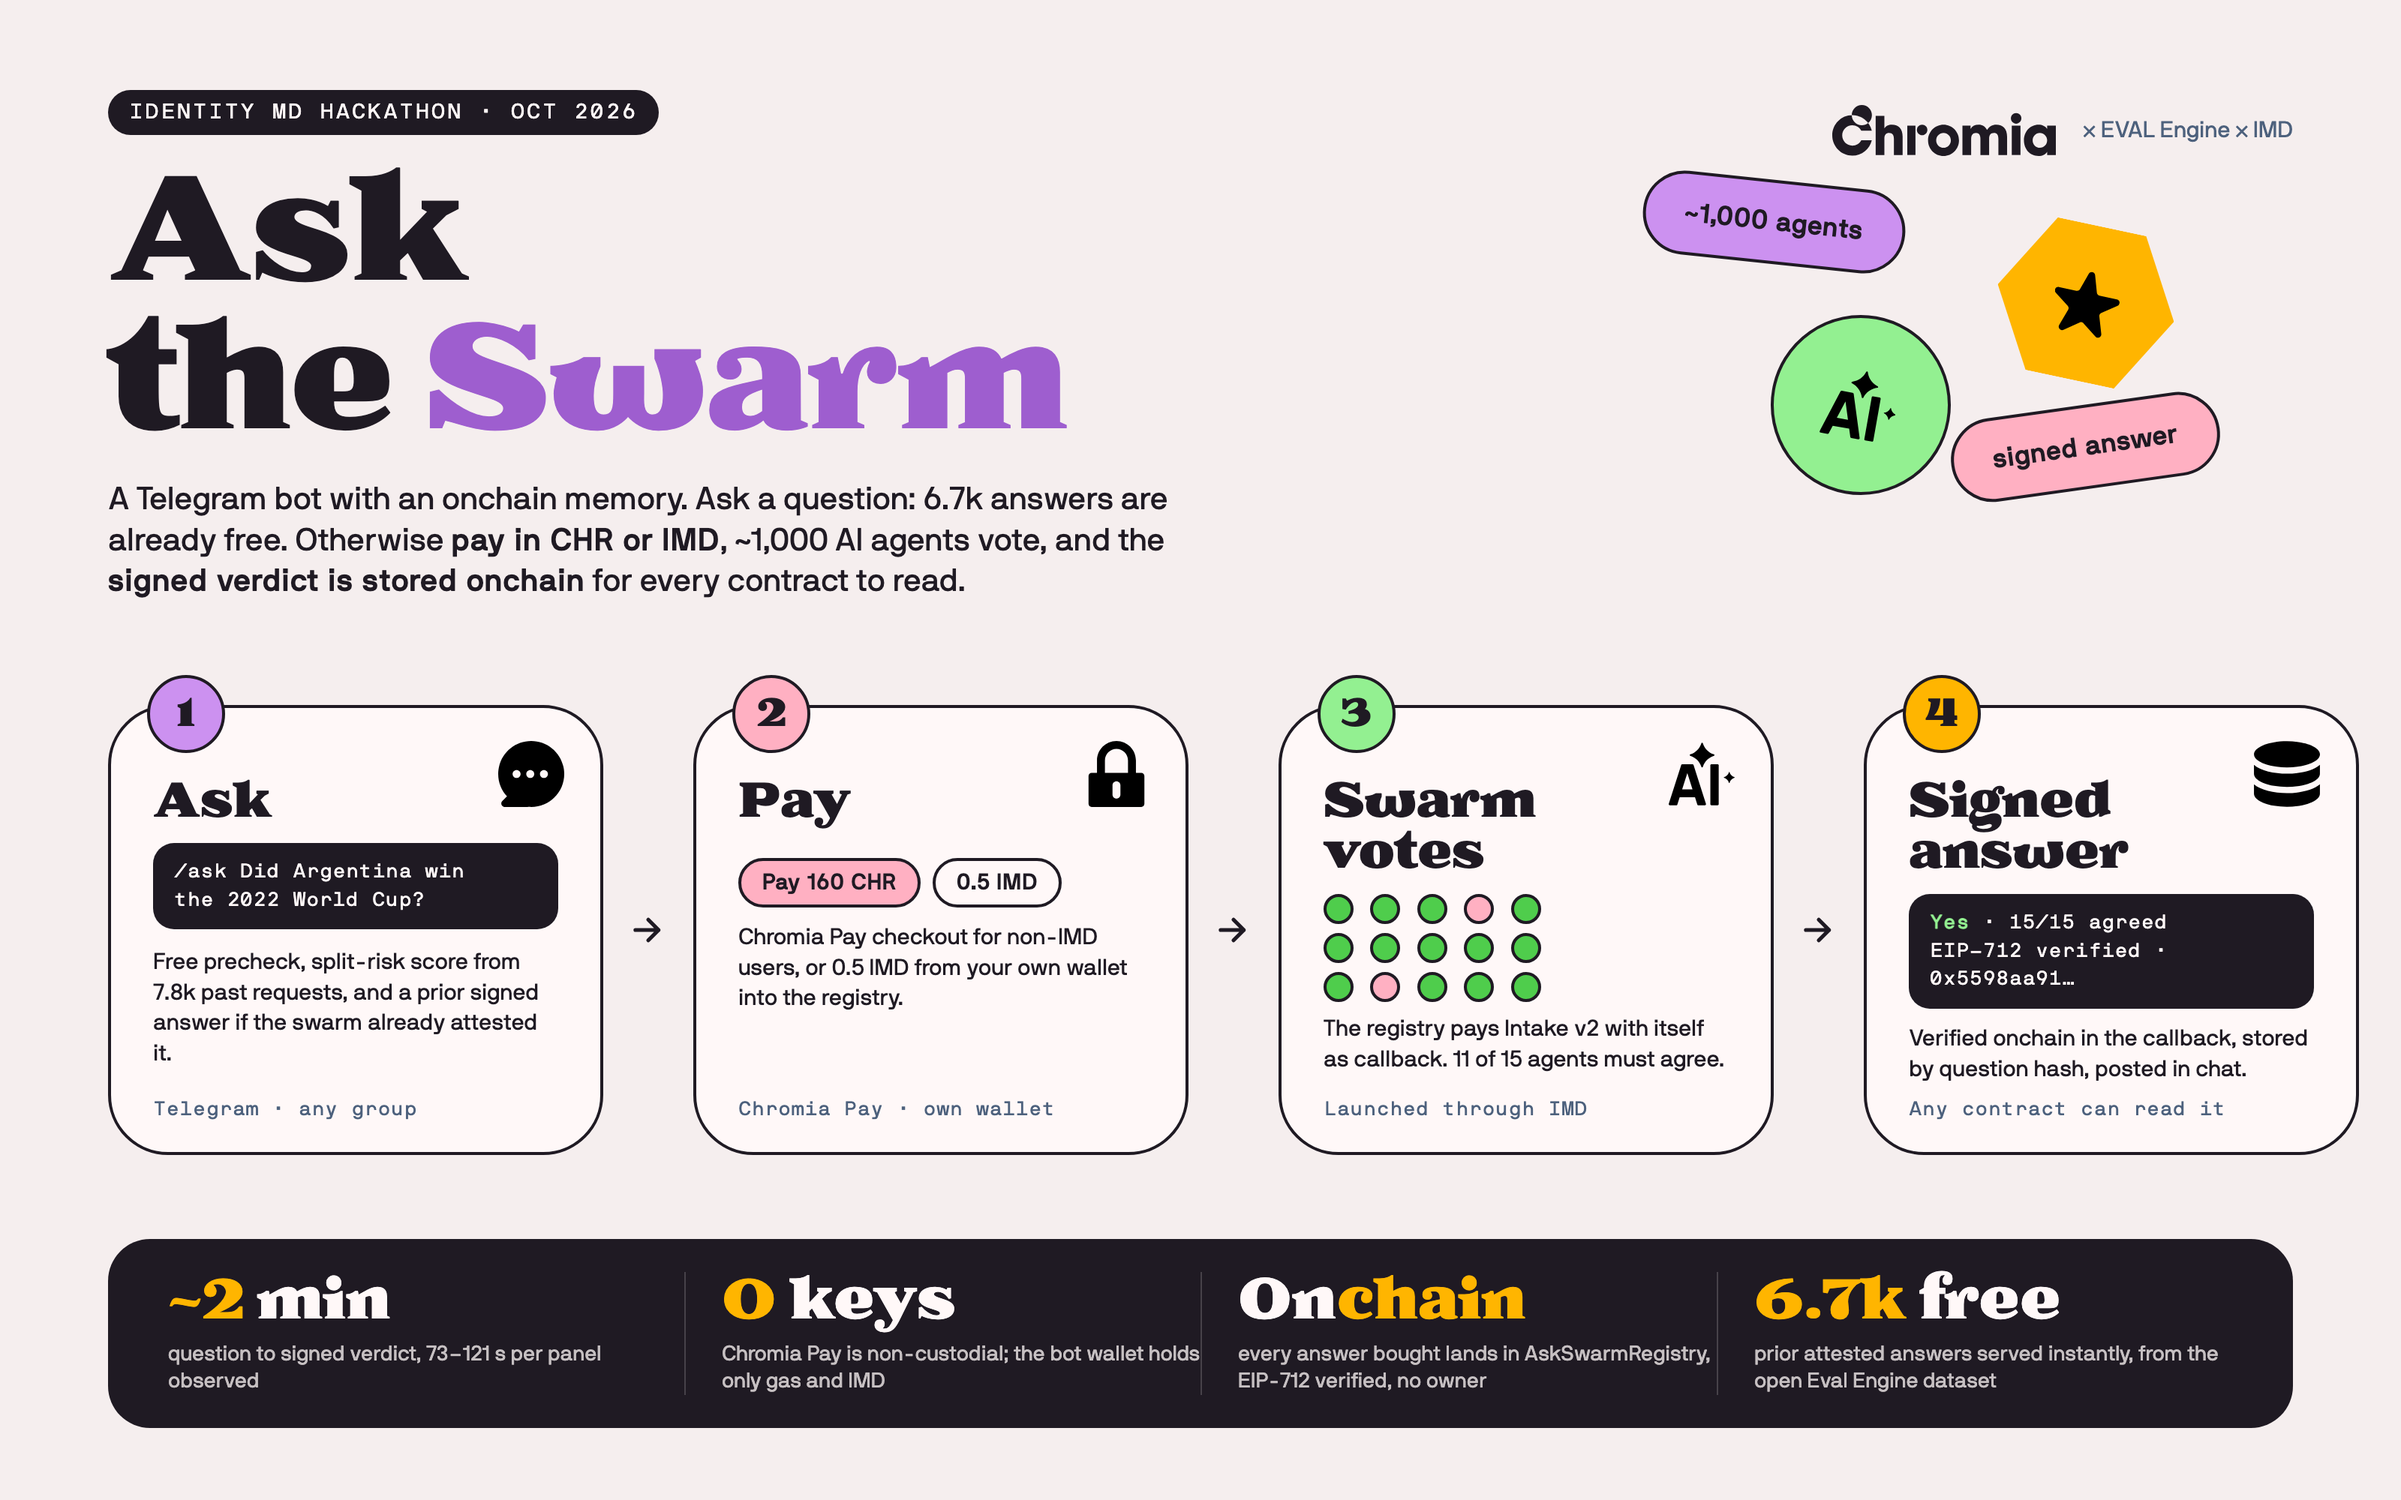
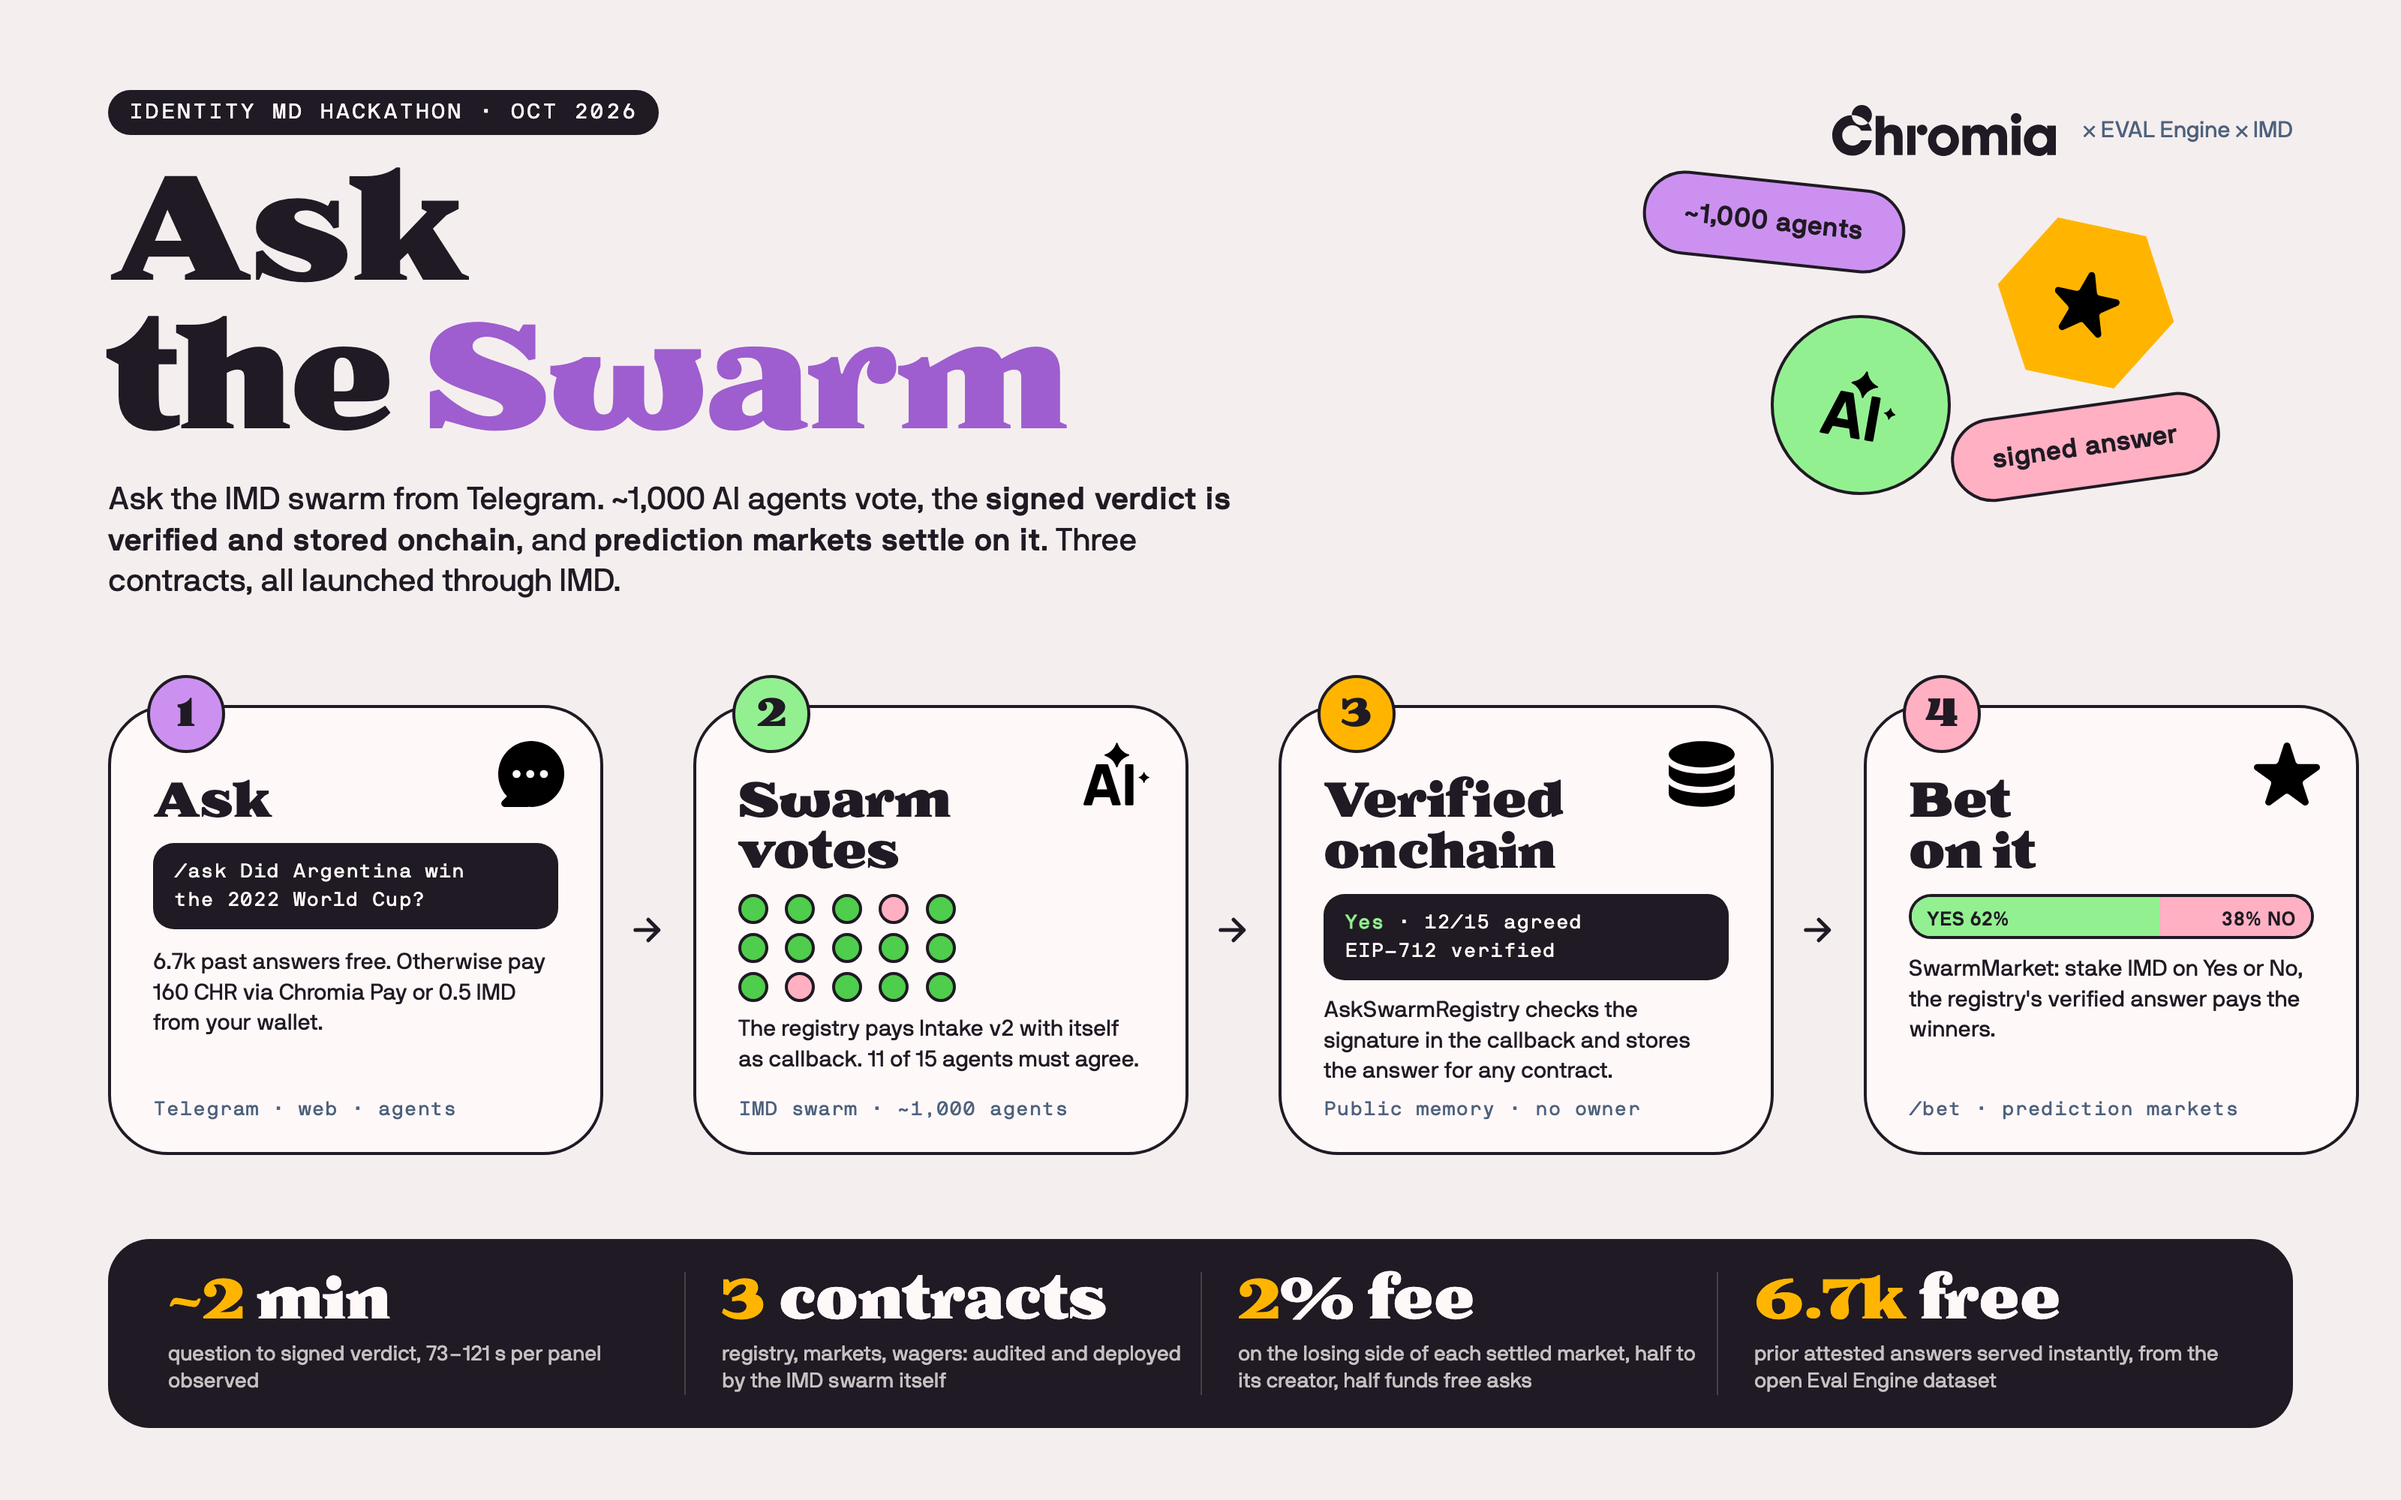
docs: README intro and architecture around registry, markets, wagers; infographic with markets

diff --git a/docs/brand/infographic.html b/docs/brand/infographic.html
@@ -60,6 +60,8 @@
   .strip small{display:block;font-size:14px;line-height:1.3;color:rgba(255,248,248,.75);margin-top:6px}
   .logos{position:absolute;right:72px;top:70px;display:flex;align-items:center;gap:18px;font-size:15px;color:var(--slate)}
   .logos img{height:34px}
+  .mbar{display:flex;height:30px;border:2px solid #1F1A23;border-radius:999px;overflow:hidden;font:700 13px/30px 'NB International';margin-top:2px}
+  .mbar .my{background:#93F091;padding-left:10px}.mbar .mn{background:#FFB0C2;flex:1;text-align:right;padding-right:10px}
 </style>
 </head>
 <body>
@@ -74,7 +76,7 @@
   <header>
     <span class="eyebrow">Identity MD hackathon · Oct 2026</span>
     <h1>Ask<br>the <span class="accent">Swarm</span></h1>
-    <p class="sub">A Telegram bot with an onchain memory. Ask a question: 6.7k answers are already free. Otherwise <b>pay in CHR or IMD</b>, ~1,000 AI agents vote, and the <b>signed verdict is stored onchain</b> for every contract to read.</p>
+    <p class="sub">Ask the IMD swarm from Telegram. ~1,000 AI agents vote, the <b>signed verdict is verified and stored onchain</b>, and <b>prediction markets settle on it</b>. Three contracts, all launched through IMD.</p>
   </header>
 
   <section class="flow">
@@ -82,39 +84,39 @@
       <span class="n">1</span><img class="ic" src="message.svg">
       <h3>Ask</h3>
       <div class="chat">/ask Did Argentina win<br>the 2022 World Cup?</div>
-      <p style="margin-top:12px">Free precheck, split-risk score from 7.8k past requests, and a prior signed answer if the swarm already attested it.</p>
-      <span class="meta">Telegram · any group</span>
-    </div>
-    <svg class="arrow" viewBox="0 0 28 28"><path d="M4 14h18M14 6l8 8-8 8" fill="none" stroke="#1F1A23" stroke-width="3" stroke-linecap="round" stroke-linejoin="round"/></svg>
-    <div class="card" style="--chip:var(--pink);--chip-s:var(--pink-s);--shadow:var(--pink-s)">
-      <span class="n">2</span><img class="ic" src="lock.svg">
-      <h3>Pay</h3>
-      <span class="btn">Pay 160 CHR</span><span class="btn ghost">0.5 IMD</span>
-      <p style="margin-top:10px">Chromia Pay checkout for non-IMD users, or 0.5 IMD from your own wallet into the registry.</p>
-      <span class="meta">Chromia Pay · own wallet</span>
+      <p style="margin-top:12px">6.7k past answers free. Otherwise pay 160 CHR via Chromia Pay or 0.5 IMD from your wallet.</p>
+      <span class="meta">Telegram · web · agents</span>
     </div>
     <svg class="arrow" viewBox="0 0 28 28"><path d="M4 14h18M14 6l8 8-8 8" fill="none" stroke="#1F1A23" stroke-width="3" stroke-linecap="round" stroke-linejoin="round"/></svg>
     <div class="card" style="--chip:var(--green);--chip-s:var(--green-s);--shadow:var(--green-s)">
-      <span class="n">3</span><img class="ic" src="ai.svg">
+      <span class="n">2</span><img class="ic" src="ai.svg">
       <h3>Swarm<br>votes</h3>
       <div class="dots"><i></i><i></i><i></i><i class="no"></i><i></i><i></i><i></i><i></i><i></i><i></i><i></i><i class="no"></i><i></i><i></i><i></i></div>
       <p>The registry pays Intake v2 with itself as callback. 11 of 15 agents must agree.</p>
-      <span class="meta">Launched through IMD</span>
+      <span class="meta">IMD swarm · ~1,000 agents</span>
     </div>
     <svg class="arrow" viewBox="0 0 28 28"><path d="M4 14h18M14 6l8 8-8 8" fill="none" stroke="#1F1A23" stroke-width="3" stroke-linecap="round" stroke-linejoin="round"/></svg>
     <div class="card" style="--chip:var(--yellow);--chip-s:var(--yellow-s);--shadow:var(--yellow-s)">
-      <span class="n">4</span><img class="ic" src="data.svg">
-      <h3>Signed answer</h3>
-      <div class="chat"><span style="color:#93F091;font-weight:700">Yes</span> · 15/15 agreed<br>EIP-712 verified · 0x5598aa91…</div>
-      <p style="margin-top:10px">Verified onchain in the callback, stored by question hash, posted in chat.</p>
-      <span class="meta">Any contract can read it</span>
+      <span class="n">3</span><img class="ic" src="data.svg">
+      <h3>Verified<br>onchain</h3>
+      <div class="chat"><span style="color:#93F091;font-weight:700">Yes</span> · 12/15 agreed<br>EIP-712 verified</div>
+      <p style="margin-top:10px">AskSwarmRegistry checks the signature in the callback and stores the answer for any contract.</p>
+      <span class="meta">Public memory · no owner</span>
+    </div>
+    <svg class="arrow" viewBox="0 0 28 28"><path d="M4 14h18M14 6l8 8-8 8" fill="none" stroke="#1F1A23" stroke-width="3" stroke-linecap="round" stroke-linejoin="round"/></svg>
+    <div class="card" style="--chip:var(--pink);--chip-s:var(--pink-s);--shadow:var(--pink-s)">
+      <span class="n">4</span><img class="ic" src="star5.svg">
+      <h3>Bet<br>on it</h3>
+      <div class="mbar"><span class="my" style="width:62%">YES 62%</span><span class="mn">38% NO</span></div>
+      <p style="margin-top:10px">SwarmMarket: stake IMD on Yes or No, the registry's verified answer pays the winners.</p>
+      <span class="meta">/bet · prediction markets</span>
     </div>
   </section>
 
   <footer class="strip">
     <div><span class="big"><span class="c">~2</span> min</span><small>question to signed verdict, 73–121 s per panel observed</small></div>
-    <div><span class="big"><span class="c">0</span> keys</span><small>Chromia Pay is non-custodial; the bot wallet holds only gas and IMD</small></div>
-    <div><span class="big">On<span class="c">chain</span></span><small>every answer bought lands in AskSwarmRegistry, EIP-712 verified, no owner</small></div>
+    <div><span class="big"><span class="c">3</span> contracts</span><small>registry, markets, wagers: audited and deployed by the IMD swarm itself</small></div>
+    <div><span class="big"><span class="c">2</span>% fee</span><small>on the losing side of each settled market, half to its creator, half funds free asks</small></div>
     <div><span class="big"><span class="c">6.7k</span> free</span><small>prior attested answers served instantly, from the open Eval Engine dataset</small></div>
   </footer>
 </body>

diff --git a/README.md b/README.md
@@ -1,12 +1,22 @@
 # AskSwarm
 
-![What AskSwarm does: ask in Telegram, pay in CHR, the IMD swarm votes, you get an EIP-712 signed answer](docs/askswarm.png)
+![AskSwarm: ask the IMD swarm from Telegram, the signed verdict is verified onchain, prediction markets settle on it](docs/askswarm.png)
 
-Telegram bot: ask a factual question in chat, the [IMD](https://imd.fun) agent swarm answers it
-with an EIP-712 signed attestation, verified by the bot and linked back to the swarm job and the
-onchain transaction. Pay in CHR through Chromia Pay, or ask free on Sepolia.
+AskSwarm turns the [IMD](https://imd.fun) oracle into something people and contracts use.
 
-Built by EVAL Engine for the Identity MD hackathon, October 2026.
+- **Ask** in Telegram (`/ask`), on the web, or as an agent ([skill.md](https://askswarm-nine.vercel.app/skill.md)). 6.7k past answers are free; a fresh one costs 160 CHR via Chromia Pay or 0.5 IMD from your own wallet.
+- **AskSwarmRegistry** pays the swarm, verifies its EIP-712 attestation onchain, and stores every answer by question hash: a public, verified memory any contract can read. Browse it at [/answers](https://askswarm-nine.vercel.app/answers).
+- **SwarmMarket** settles yes/no prediction markets on those answers (`/bet`, [/market](https://askswarm-nine.vercel.app/market)). Winners split the losing side; 2% of it goes half to the market's creator, half to fund free asks.
+- **SwarmWager** does the same for one-on-one bets.
+- All three contracts were audited, adapted and deployed by the IMD swarm itself through IMD launches. Every answer flows back into the open [Eval Engine dataset](https://huggingface.co/datasets/evalengine/imd-oracle-outcomes) that the split-risk model learns from.
+
+| contract | address | IMD launch |
+|---|---|---|
+| AskSwarmRegistry | [`0x53e1e2f3…b111cd`](https://etherscan.io/address/0x53e1e2f33f05086086adf618ca92c3cb0ab111cd) | [#2099](https://explorer.imd.fun/launches/503c2f1a-6479-4fbb-856a-4d57361698fb) |
+| SwarmMarket | MARKET_ADDR | MARKET_LAUNCH |
+| SwarmWager | WAGER_ADDR | WAGER_LAUNCH |
+
+Built by Chromia × EVAL Engine for the Identity MD hackathon, October 2026. Bot: [t.me/askswarm_bot](https://t.me/askswarm_bot).
 
 **Demo (40 s):** [docs/askswarm-demo.mp4](docs/askswarm-demo.mp4)
 
@@ -50,41 +60,42 @@ sequenceDiagram
 
 ```mermaid
 flowchart LR
-    subgraph TG[Telegram]
-        U[User]
+    subgraph Users
+        U[Telegram /ask /bet]
+        WB["Web: /answers /market /wager"]
+        AG["Agents: skill.md, /api/*"]
     end
-    subgraph V[Vercel, two functions]
-        T[api/telegram.ts<br/>grammy webhook]
-        W[api/cpay-webhook.ts<br/>HMAC verify]
-        L[lib/bot.ts<br/>stateless handlers]
-        T --> L
-        W --> L
+    subgraph V[Vercel functions]
+        L[bot + APIs<br/>stateless]
     end
-    subgraph CP[Chromia Pay]
-        C[Hosted checkout]
-        H[Signed webhooks]
+    CP[Chromia Pay<br/>CHR checkout]
+    subgraph ETH[Ethereum mainnet]
+        R["AskSwarmRegistry<br/>verify EIP-712, store by questionHash"]
+        M["SwarmMarket<br/>yes/no pools, 2% fee"]
+        W["SwarmWager<br/>1v1 bets"]
+        IN["Intake v2"]
     end
-    subgraph ETH[Ethereum / Sepolia]
-        K[(Hot wallet<br/>gas + IMD only)]
-        IN["Intake v2<br/>0xa43e…de82"]
+    subgraph IMD[IMD swarm]
+        S[~1,000 agents<br/>quorum vote]
     end
-    subgraph IMD[IMD control plane]
-        CHK["/requests/check"]
-        RD["/intake/:chain/:tx"]
-        OR["/oracle/requests/:id"]
-        AT["/attestation<br/>EIP-712"]
-    end
-    U <-->|/ask, buttons| T
-    L -->|payments.create| C
-    H -->|payment.confirmed| W
-    L -->|"request(...)"| IN
-    K -. signs .-> IN
-    IN -->|Requested event| RD
-    L --> CHK
-    L --> RD
-    L --> OR
-    L --> AT
-    L -->|verifyTypedData| L
+    HF[(Eval Engine dataset<br/>Hugging Face)]
+    U --> L
+    WB --> L
+    AG --> L
+    L -->|payments| CP
+    L -->|"ask(body)"| R
+    WB -->|wallet| M
+    WB -->|wallet| W
+    M -->|"resolve: askAtMost"| R
+    W -->|"resolve: askAtMost"| R
+    M -. "settle: get(requestId)" .-> R
+    W -. "settle: get(requestId)" .-> R
+    R -->|"requestWithFailure, callback=R"| IN
+    IN --> S
+    S -->|"complete: signed attestation"| IN
+    IN -->|onOracleResult| R
+    R -. daily sync .-> HF
+    HF -. trains split-risk .-> L
 ```
 
 ### State lives in the message, not a database
